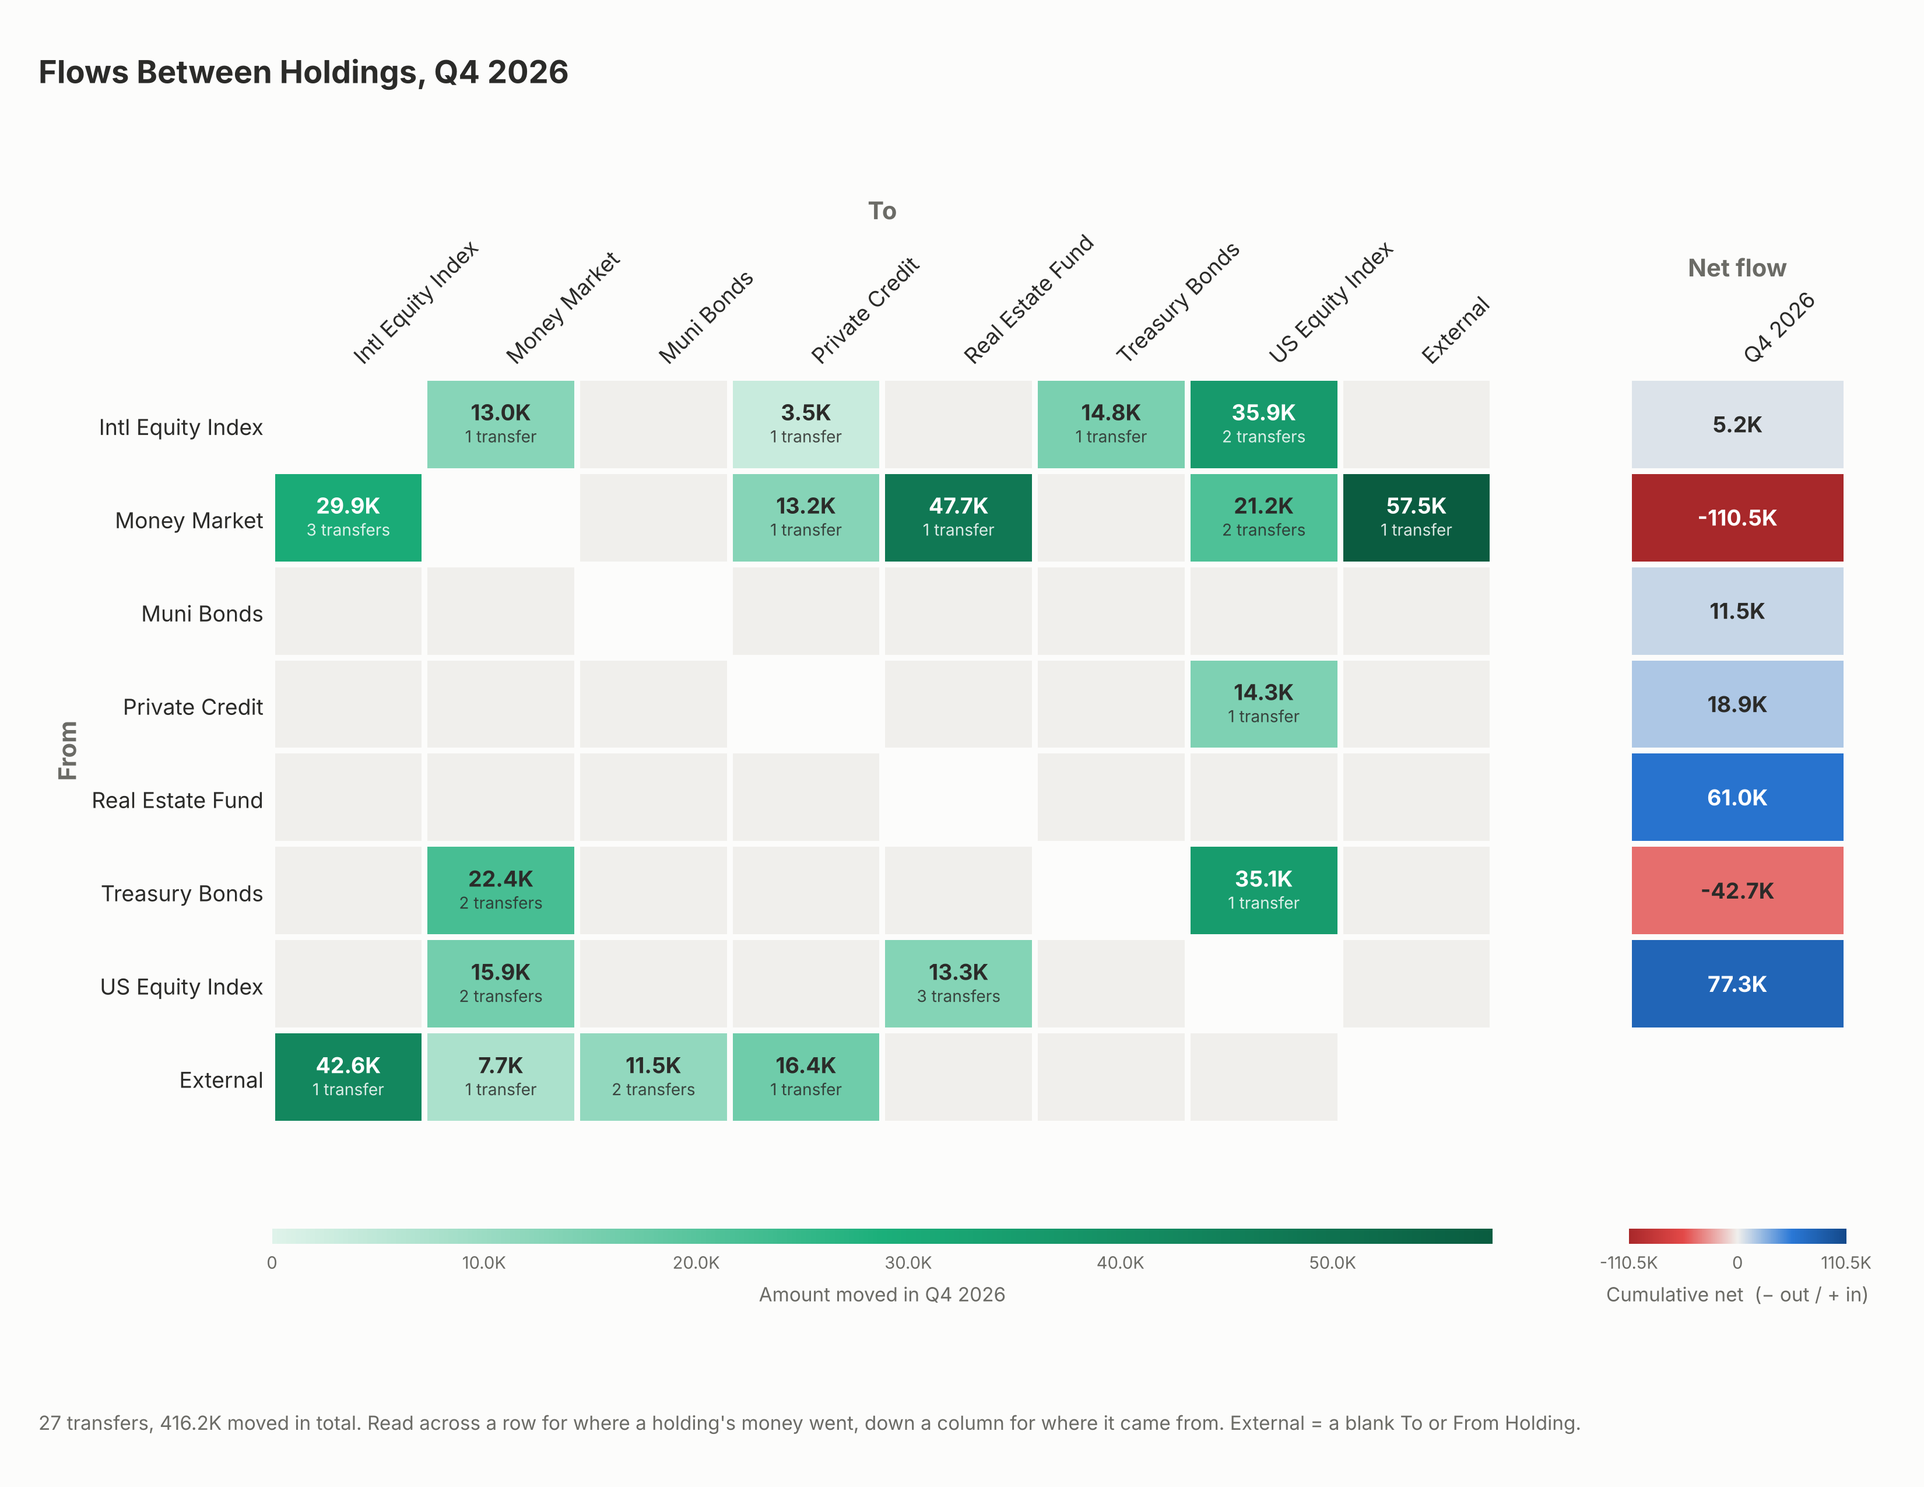
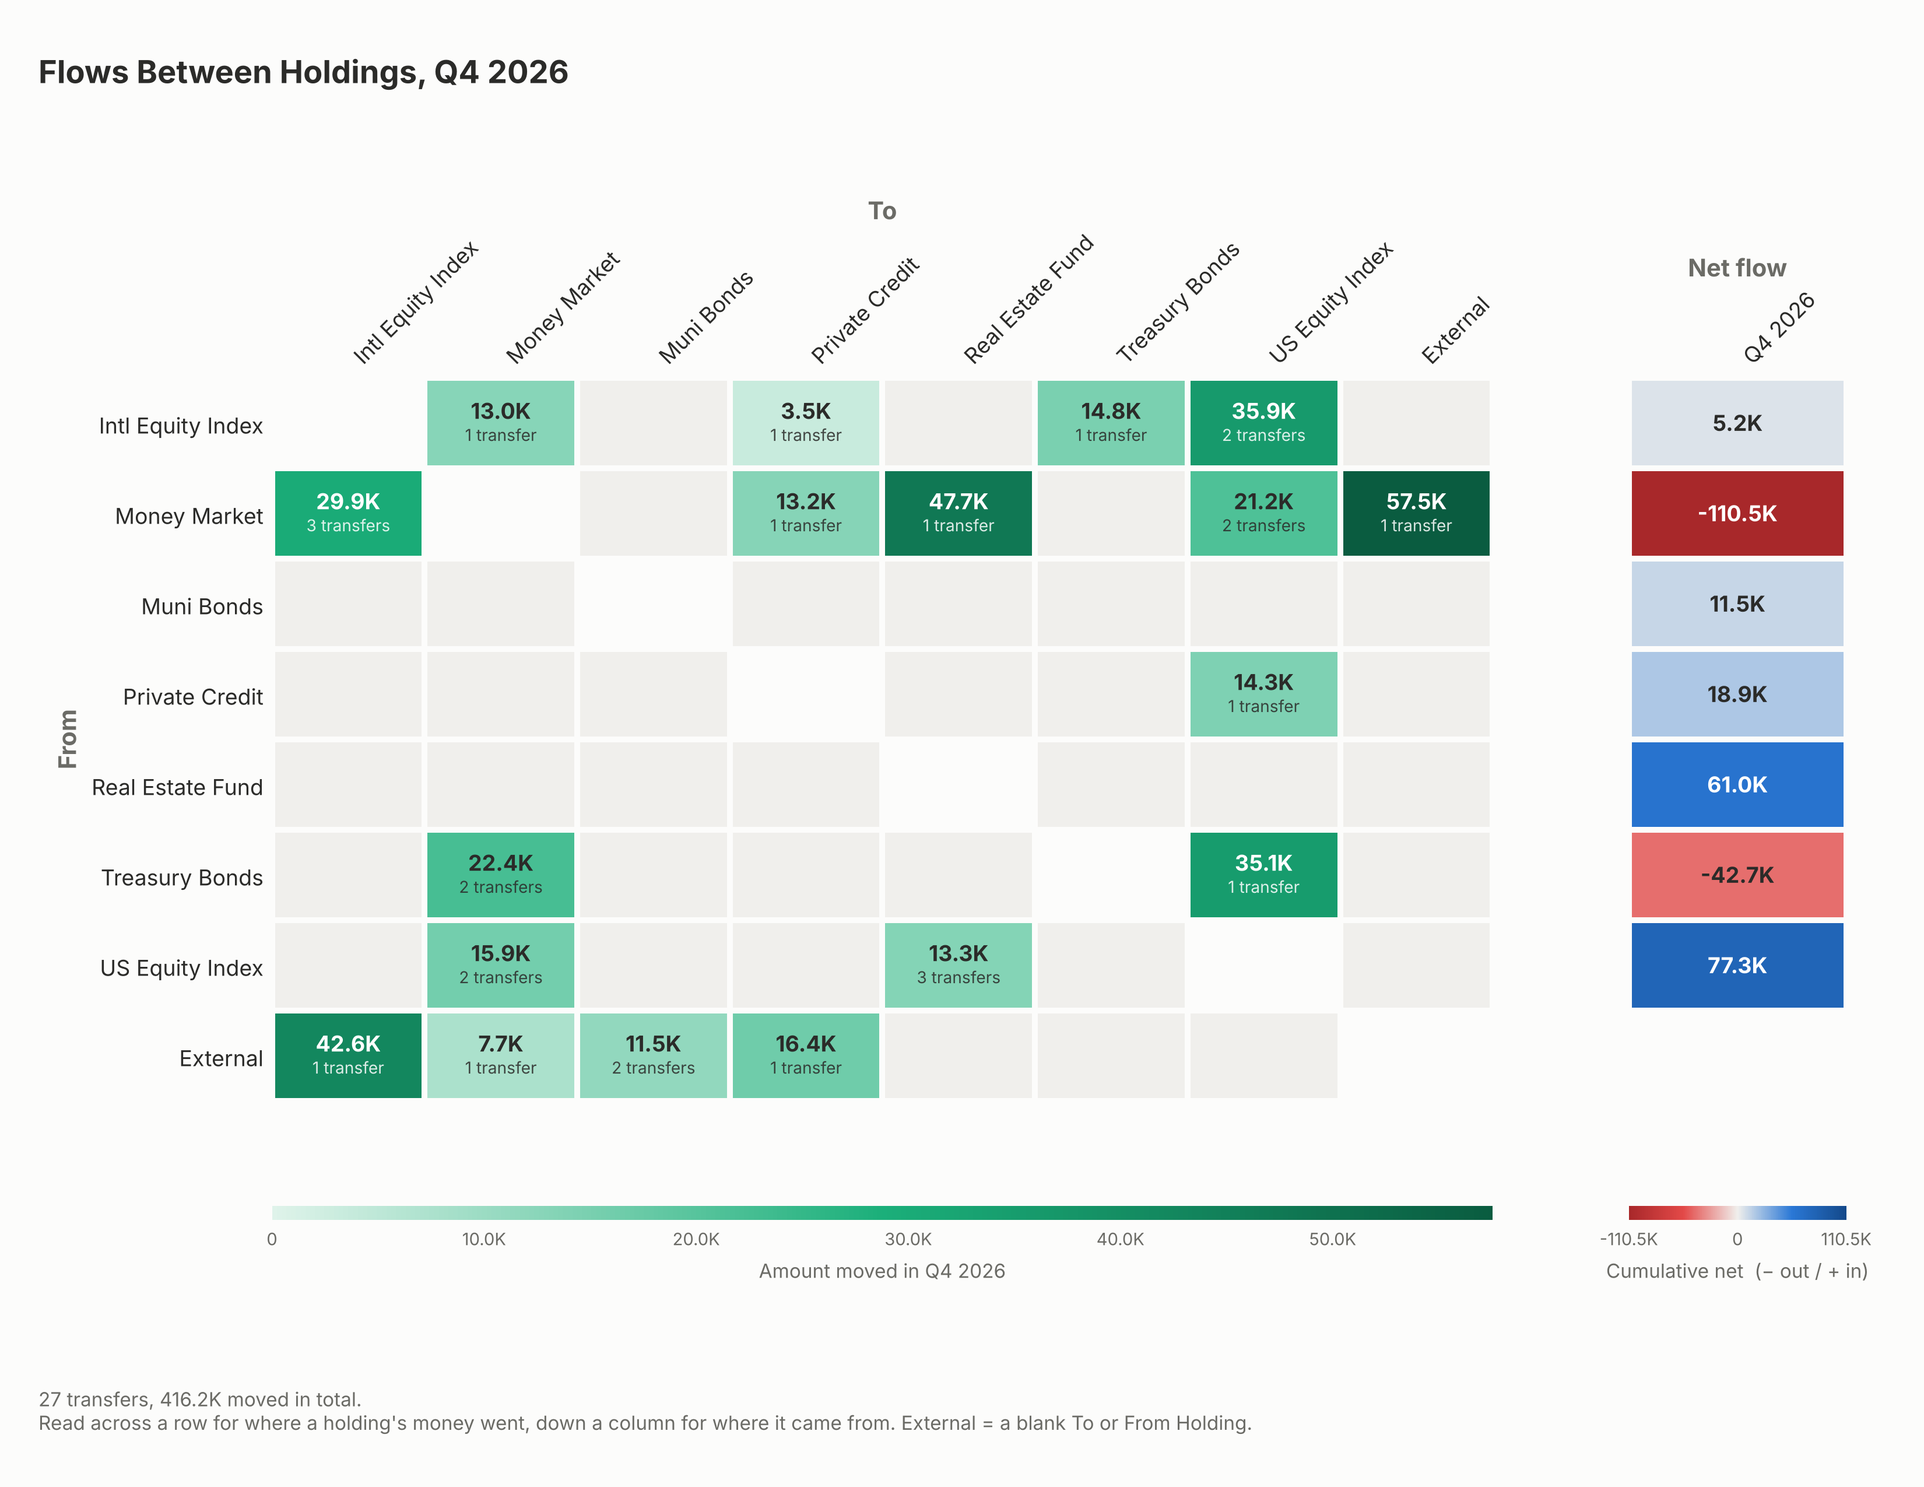
Handle many holdings: --top, --table and thinner cell gaps
With ~200 holdings both views were unreadable: the 2pt gaps between
cells covered the cells and the names overlapped. Now:

- --top N (default 20) shows the holdings with the most money moving
  in and out and combines the rest as "Other holdings", in both views.
  --top 0 shows every holding.
- --table PATH.xlsx writes the full, uncombined numbers for every
  holding (amount moved, transfer counts, cumulative net flow).
- The gaps between cells get thinner as the cells get smaller.
- Matrix cells fall back to whole-number labels before dropping them,
  and the footer is split over two lines so it fits on the page.

Claude-Session: https://claude.ai/code/session_013XvAyNSmqhwNHoVs7xLoEL

diff --git a/holding_heatmap.py b/holding_heatmap.py
@@ -13,9 +13,14 @@ drawn as a From x To matrix of the amounts moved between holdings, with each hol
 net flow beside it (the running totals start at zero at the beginning of the quarter).
 Use --all-data to use every row and show the running totals over time instead.
 
+With many holdings, only the --top N (default 20) with the most money moving in and out
+are shown; the rest are combined as "Other holdings". --table writes the full numbers
+for every holding to an xlsx file.
+
 Usage:
     python holding_heatmap.py flows.xlsx [-o holding_heatmap.png] [--all-data]
-                              [--period quarterly|monthly] [--sheet NAME] [--no-labels]
+                              [--period quarterly|monthly] [--top N] [--table PATH.xlsx]
+                              [--sheet NAME] [--no-labels]
 """
 
 import argparse
@@ -38,6 +43,40 @@ EXTERNAL = "External"
 # apart from the red/blue of the net-flow scale, which means out/in.
 SEQUENTIAL = LinearSegmentedColormap.from_list("moved", ["#dff3ea", "#1baf7a", "#0a5c40"])
 EMPTY_CELL = "#f0efec"  # a holding pair with no transfers
+# Holdings beyond --top are combined under this name.
+OTHER = "Other holdings"
+DEFAULT_TOP = 20
+
+
+def holding_order(names):
+    """Sort holding names alphabetically, with OTHER and then EXTERNAL last."""
+    names = set(names)
+    order = sorted(names - {OTHER, EXTERNAL}, key=str.casefold)
+    return order + [n for n in (OTHER, EXTERNAL) if n in names]
+
+
+def gap_width(cell_pts):
+    """Width (points) of the surface-coloured gap between cells: 2pt, thinner for
+    small cells so the gaps never hide the colours."""
+    return min(2.0, 0.08 * cell_pts)
+
+
+def fold_holdings(df, top):
+    """Keep the `top` holdings with the most money moving in and out; rename the rest
+    to OTHER. Returns (rows, number of holdings combined). top=0 keeps them all."""
+    legs = pd.concat([df["To Holding"], df["From Holding"]], ignore_index=True)
+    amounts = pd.concat([df["Amount"].abs()] * 2, ignore_index=True)
+    named = legs.notna() & (legs != "").fillna(False)
+    activity = amounts[named].groupby(legs[named]).sum()
+    if top <= 0 or len(activity) <= top:
+        return df, 0
+    keep = set(activity.nlargest(top).index)
+    df = df.copy()
+    for col in ("To Holding", "From Holding"):
+        side = df[col]
+        fold = (side.notna() & (side != "").fillna(False) & ~side.isin(keep)).astype(bool)
+        df[col] = side.mask(fold, OTHER)
+    return df, len(activity) - top
 
 
 def compact_whole(value):
@@ -121,7 +160,8 @@ def cumulative_net_flows(df, freq="Q"):
     # Include every period in the range, so quiet periods carry the running total forward.
     all_periods = pd.period_range(period.min(), period.max(), freq=freq)
     table = table.reindex(columns=all_periods, fill_value=0.0)
-    return table.cumsum(axis=1).sort_index(key=lambda names: names.str.casefold())
+    table = table.cumsum(axis=1)
+    return table.reindex(holding_order(table.index))
 
 
 def latest_quarter(df):
@@ -139,7 +179,8 @@ def flow_matrix(df):
     with the total moved and the number of transfers (NaN where there were none).
 
     A blank holding becomes EXTERNAL. A negative amount is counted as a transfer the
-    other way. Both axes list the same holdings, alphabetically, with EXTERNAL last.
+    other way. Both axes list the same holdings, alphabetically, with
+    OTHER and EXTERNAL last.
     """
     sides = {c: df[c].fillna("").replace("", EXTERNAL) for c in ("From Holding", "To Holding")}
     reverse = df["Amount"] < 0
@@ -152,9 +193,7 @@ def flow_matrix(df):
 
     grouped = pairs.groupby(["From", "To"])["Amount"]
     amounts, counts = grouped.sum().unstack(), grouped.size().unstack()
-    names = set(amounts.index) | set(amounts.columns)
-    order = sorted(names - {EXTERNAL}, key=str.casefold)
-    order += [EXTERNAL] if EXTERNAL in names else []
+    order = holding_order(set(amounts.index) | set(amounts.columns))
     return (amounts.reindex(index=order, columns=order),
             counts.reindex(index=order, columns=order))
 
@@ -164,14 +203,19 @@ def label_matrix(ax, amounts, counts, norm):
     fig = ax.figure
     bbox = ax.get_window_extent().transformed(fig.dpi_scale_trans.inverted())
     cell_h = 72 * bbox.height / amounts.shape[0]
-    fontsize = cell_fontsize(ax, amounts, compact)
+    fmt = compact
+    fontsize = cell_fontsize(ax, amounts, fmt)
     # Two lines (amount, then a smaller count) need ~2.2 font heights.
     two_lines = min(fontsize, 0.9 * cell_h / 2.2)
     show_counts = two_lines >= 5
     if show_counts:
         fontsize = two_lines
     elif fontsize < 4.5:
-        return
+        # Amounts only; if they still don't fit, try whole numbers (870K, not 870.4K).
+        fmt = compact_whole
+        fontsize = cell_fontsize(ax, amounts, fmt)
+        if fontsize < 4.5:
+            return
     # Offset of each line from the cell centre, in rows (1 row = 1 data unit).
     offset = 0.55 * fontsize / cell_h if show_counts else 0
 
@@ -181,7 +225,7 @@ def label_matrix(ax, amounts, counts, norm):
             if not np.isfinite(v):
                 continue
             color = "white" if norm(v) > 0.5 else INK
-            ax.text(j + 0.5, i + 0.5 - offset, compact(v), ha="center", va="center",
+            ax.text(j + 0.5, i + 0.5 - offset, fmt(v), ha="center", va="center",
                     fontsize=fontsize, fontweight="bold", color=color)
             if show_counts:
                 n = int(counts[i, j])
@@ -190,11 +234,12 @@ def label_matrix(ax, amounts, counts, norm):
                         color=color, alpha=0.85)
 
 
-def plot_flow_matrix(amounts, counts, net, out_path, quarter, show_labels=True,
+def plot_flow_matrix(amounts, counts, net, out_path, quarter, note, show_labels=True,
                      period="quarterly"):
     """Draw the From x To matrix for one quarter with the net-flow columns beside it.
 
     `net` has the same rows as `amounts` (NaN for EXTERNAL) and one column per period.
+    `note` starts the footer line.
     """
     names = list(amounts.index)
     n, n_periods = len(names), net.shape[1]
@@ -209,6 +254,7 @@ def plot_flow_matrix(amounts, counts, net, out_path, quarter, show_labels=True,
     # Rough cell size (points) used to size the holding names before layout.
     row_pts = 72 * (PAGE_SIZE[1] - 3.6) / n
     name_fontsize = max(4, min(9, 0.7 * row_pts))
+    gap = gap_width(row_pts)
 
     # Widths in inches: the net columns get enough room for their labels and colour bar.
     net_width = max(1.3, 0.9 * n_periods)
@@ -226,11 +272,11 @@ def plot_flow_matrix(amounts, counts, net, out_path, quarter, show_labels=True,
     # then the pairs that had transfers on top.
     background = np.where(np.eye(n, dtype=bool), np.nan, 0.0)
     ax.pcolormesh(np.ma.masked_invalid(background), cmap=ListedColormap([EMPTY_CELL]),
-                  edgecolors=SURFACE, linewidth=2)
+                  edgecolors=SURFACE, linewidth=gap)
     mesh = ax.pcolormesh(np.ma.masked_invalid(values), cmap=SEQUENTIAL, norm=moved_norm,
-                         edgecolors=SURFACE, linewidth=2)
+                         edgecolors=SURFACE, linewidth=gap)
     net_mesh = ax_net.pcolormesh(np.ma.masked_invalid(net_values), cmap=DIVERGING,
-                                 norm=net_norm, edgecolors=SURFACE, linewidth=2)
+                                 norm=net_norm, edgecolors=SURFACE, linewidth=gap)
 
     for a in (ax, ax_net):
         a.set_facecolor(SURFACE)
@@ -265,11 +311,9 @@ def plot_flow_matrix(amounts, counts, net, out_path, quarter, show_labels=True,
         cbar.ax.xaxis.set_major_formatter(FuncFormatter(lambda v, _: compact(v)))
         cbar.set_label(label, color=MUTED_INK, fontsize=8)
 
-    n_transfers = int(np.nansum(count_values))
     fig.suptitle(f"Flows Between Holdings, {quarter.strftime(PERIODS['quarterly'][1])}",
                  x=0.02, ha="left", color=INK, fontsize=13, fontweight="bold")
-    note = (f"{n_transfers:,} transfers, {compact(np.nansum(values))} moved in total. "
-            "Read across a row for where a holding's money went, "
+    note += ("\nRead across a row for where a holding's money went, "
             "down a column for where it came from.")
     if EXTERNAL in names:
         note += f" {EXTERNAL} = a blank To or From Holding."
@@ -289,7 +333,7 @@ def plot_flow_matrix(amounts, counts, net, out_path, quarter, show_labels=True,
     plt.close(fig)
 
 
-def plot_heatmap(table, out_path, show_labels=True, period="quarterly"):
+def plot_heatmap(table, out_path, show_labels=True, period="quarterly", note=None):
     n_holdings, n_periods = table.shape
     values = table.to_numpy(dtype=float)
 
@@ -301,6 +345,7 @@ def plot_heatmap(table, out_path, show_labels=True, period="quarterly"):
     row_pts = 72 * (PAGE_SIZE[1] - 2.0) / n_holdings
     col_pts = 72 * (PAGE_SIZE[0] - 3.5) / n_periods
     y_fontsize = max(4, min(9, 0.7 * row_pts))
+    gap = gap_width(min(row_pts, col_pts))
     x_fontsize = max(4, min(9, 0.9 * col_pts))
     # With many months, label every n-th one so the dates don't overlap.
     x_step = max(1, int(np.ceil(x_fontsize * 1.6 / col_pts)))
@@ -314,7 +359,7 @@ def plot_heatmap(table, out_path, show_labels=True, period="quarterly"):
 
     # edgecolor = surface gives a thin gap between cells.
     mesh = ax.pcolormesh(values, cmap=DIVERGING, norm=norm,
-                         edgecolors=SURFACE, linewidth=2)
+                         edgecolors=SURFACE, linewidth=gap)
     ax.set_facecolor(SURFACE)
     ax.invert_yaxis()
     style_axes(ax)
@@ -343,6 +388,8 @@ def plot_heatmap(table, out_path, show_labels=True, period="quarterly"):
         span += f" – {last.strftime(quarter_format)}"
     fig.suptitle(f"Cumulative Net Flow by Holding, {span}", x=0.02, ha="left",
                  color=INK, fontsize=13, fontweight="bold")
+    if note:
+        fig.supxlabel(note, x=0.02, ha="left", color=MUTED_INK, fontsize=8)
 
     fig.draw_without_rendering()  # run the layout so cell sizes are final
 
@@ -359,6 +406,20 @@ def plot_heatmap(table, out_path, show_labels=True, period="quarterly"):
     plt.close(fig)
 
 
+def write_table(df, path, freq, matrix=True):
+    """Write the full numbers for every holding (nothing combined) to an xlsx file."""
+    label_format = PERIODS["quarterly" if freq == "Q" else "monthly"][1]
+    net = cumulative_net_flows(df, freq=freq)
+    net.columns = [p.strftime(label_format) for p in net.columns]
+    with pd.ExcelWriter(path) as writer:
+        if matrix:
+            amounts, counts = flow_matrix(df)
+            amounts.rename_axis(index="From / To").to_excel(writer, sheet_name="Amount moved")
+            counts.rename_axis(index="From / To").to_excel(writer, sheet_name="Transfers")
+        net.rename_axis(index="Holding").to_excel(writer, sheet_name="Cumulative net flow")
+    print(f"Saved full table to {path}")
+
+
 def main():
     parser = argparse.ArgumentParser(description=__doc__,
                                      formatter_class=argparse.RawDescriptionHelpFormatter)
@@ -372,6 +433,13 @@ def main():
     parser.add_argument("--all-data", action="store_true",
                         help="use every row and show running totals over time (default: "
                              "only the most recent quarter, as a From x To matrix)")
+    parser.add_argument("--top", type=int, default=DEFAULT_TOP, metavar="N",
+                        help="show the N holdings with the most money moving in and out "
+                             f"and combine the rest as \"{OTHER}\" (default: {DEFAULT_TOP}; "
+                             "0 shows every holding)")
+    parser.add_argument("--table", metavar="PATH.xlsx",
+                        help="also write the full numbers for every holding to this xlsx "
+                             "file (nothing combined)")
     parser.add_argument("--sheet", default=0,
                         help="sheet name or index to read (default: first sheet)")
     parser.add_argument("--no-labels", action="store_true",
@@ -386,19 +454,36 @@ def main():
         df, quarter = latest_quarter(df)
         print(f"Using only {quarter.strftime(PERIODS['quarterly'][1])} "
               f"({len(df)} rows); pass --all-data to use every row.")
-        amounts, counts = flow_matrix(df)
+
+    freq = PERIODS[args.period][0]
+    if args.table:
+        write_table(df, args.table, freq, matrix=not args.all_data)
+    shown, n_combined = fold_holdings(df, args.top)
+    combined_note = ""
+    if n_combined:
+        combined_note = (f"Showing the {args.top} holdings with the most money moved; the "
+                         f"other {n_combined} are combined as {OTHER}.")
+        print(f"{n_combined} holdings combined as \"{OTHER}\"; use --top to change how "
+              f"many are shown, or --table for every holding.")
+
+    if not args.all_data:
+        amounts, counts = flow_matrix(shown)
         if amounts.empty:
             sys.exit("No To Holding or From Holding values found.")
-        net = cumulative_net_flows(df, freq=PERIODS[args.period][0]).reindex(amounts.index)
-        plot_flow_matrix(amounts, counts, net, args.output, quarter,
+        net = cumulative_net_flows(shown, freq=freq).reindex(amounts.index)
+        note = f"{len(df):,} transfers, {compact(df['Amount'].abs().sum())} moved in total."
+        if n_combined:
+            note += f" {combined_note} Transfers between two of those aren't shown."
+        plot_flow_matrix(amounts, counts, net, args.output, quarter, note,
                          show_labels=not args.no_labels, period=args.period)
         print(f"Saved flow matrix for {len(amounts)} holdings to {args.output}")
         return
 
-    table = cumulative_net_flows(df, freq=PERIODS[args.period][0])
+    table = cumulative_net_flows(shown, freq=freq)
     if table.empty:
         sys.exit("No To Holding or From Holding values found.")
-    plot_heatmap(table, args.output, show_labels=not args.no_labels, period=args.period)
+    plot_heatmap(table, args.output, show_labels=not args.no_labels, period=args.period,
+                 note=combined_note)
     unit = "quarters" if args.period == "quarterly" else "months"
     print(f"Saved heat map for {table.shape[0]} holdings x {table.shape[1]} {unit} "
           f"to {args.output}")

diff --git a/README.md b/README.md
@@ -79,7 +79,15 @@ python holding_heatmap.py flows.xlsx --period monthly -o latest_by_month.png  # 
 python holding_heatmap.py flows.xlsx --all-data -o all_quarters.png           # every quarter
 ```
 
-`--sheet` and `--no-labels` work as above.
+`--sheet` and `--no-labels` work as above. Two more options help with many holdings:
+
+- `--top N` shows the N holdings with the most money moving in and out (default 20) and
+  combines the rest into one **Other holdings** row (and column). The footer says how many
+  were combined. `--top 0` shows every holding; with more than about 30 the names and
+  numbers get too small to read, but the colors still show the pattern.
+- `--table PATH.xlsx` also writes the full numbers for every holding, with nothing
+  combined, to an Excel file: the amount moved and number of transfers for each pair,
+  and the cumulative net flow.
 
 - **Latest quarter (default):** only rows dated in the most recent calendar quarter that
   appears in the file are used. The quarter is shown in the title and printed when the
@@ -91,8 +99,10 @@ python holding_heatmap.py flows.xlsx --all-data -o all_quarters.png           # 
     withdrawals are visible. A negative amount counts as a transfer the other way.
   - The **Net flow** column (three columns, one per month, with `--period monthly`) is
     each holding's in minus out since the start of the quarter.
-  - With many holdings, the numbers are left out of the matrix cells when they no longer
-    fit, and the colors carry the pattern.
+  - Transfers between two holdings that were both combined into Other holdings aren't
+    shown in the matrix (they don't change Other holdings' net flow).
+  - When the numbers don't fit with the transfer counts, the counts are dropped; then the
+    numbers are rounded (`870K`); then they're left out and the colors carry the pattern.
 - **`--all-data`:** every row is used. Each cell is the holding's net flow (in minus out)
   added up from the first period in the file through the end of that period, and the
   title shows the range of quarters. Periods with no activity carry the total forward.
